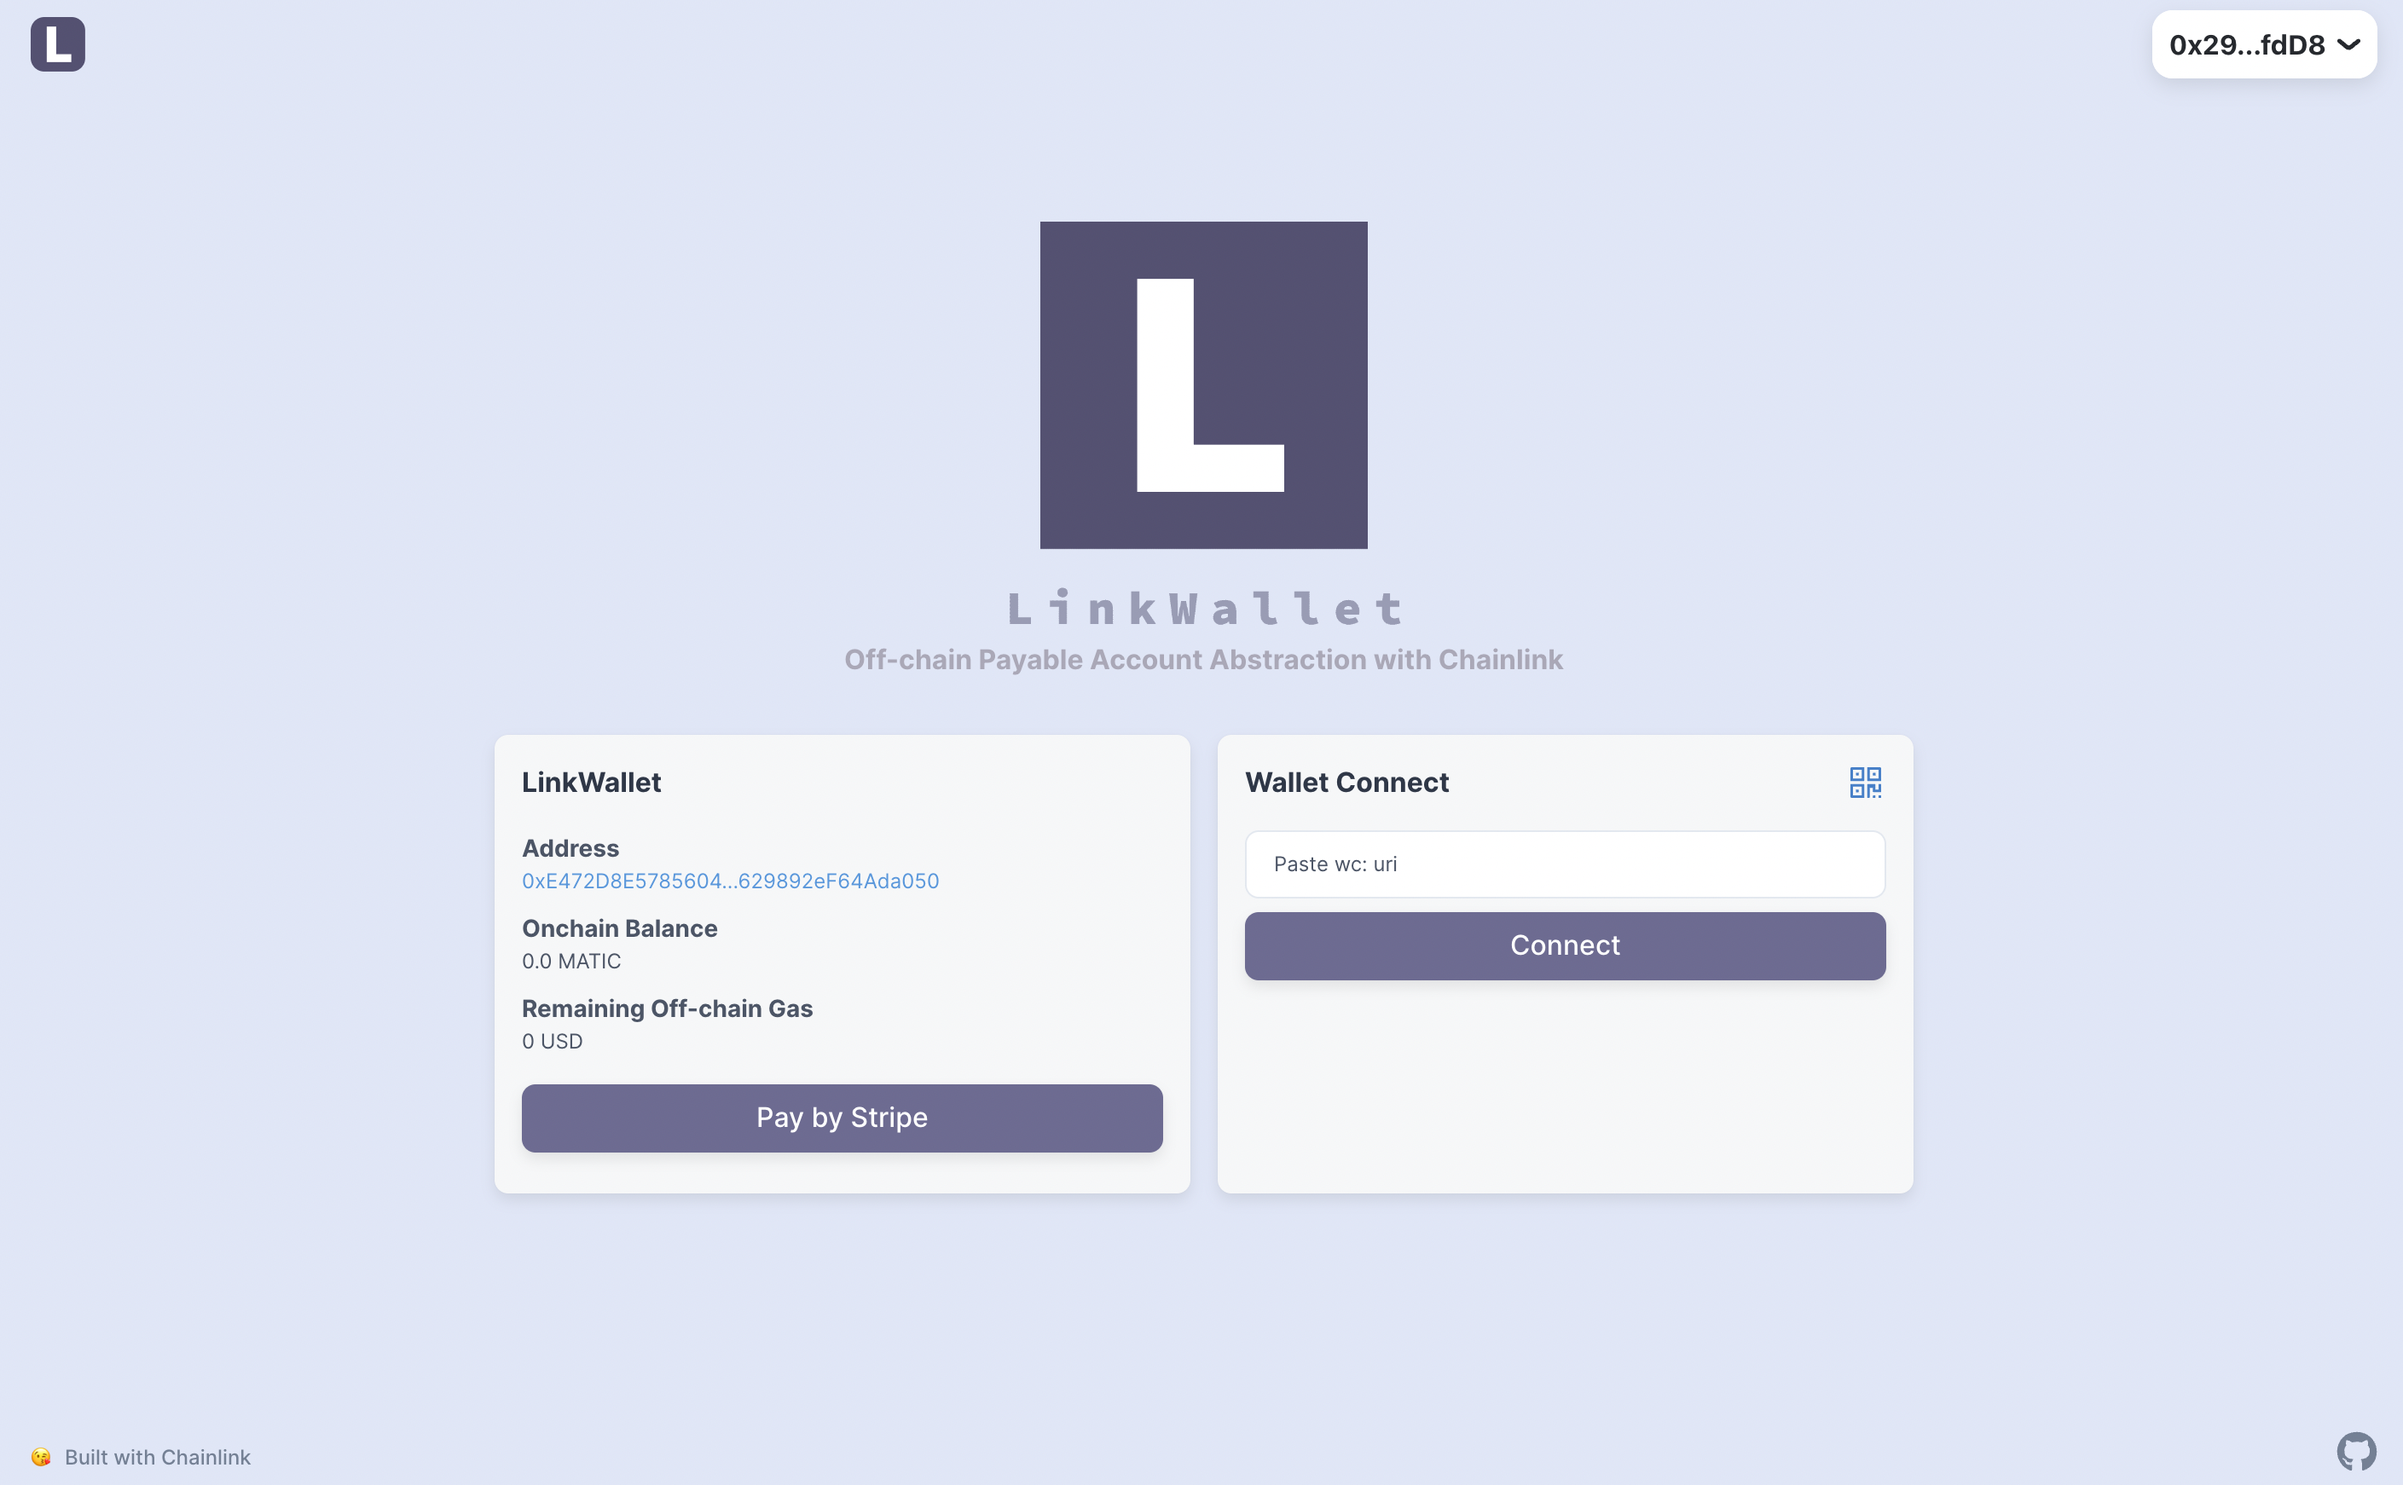
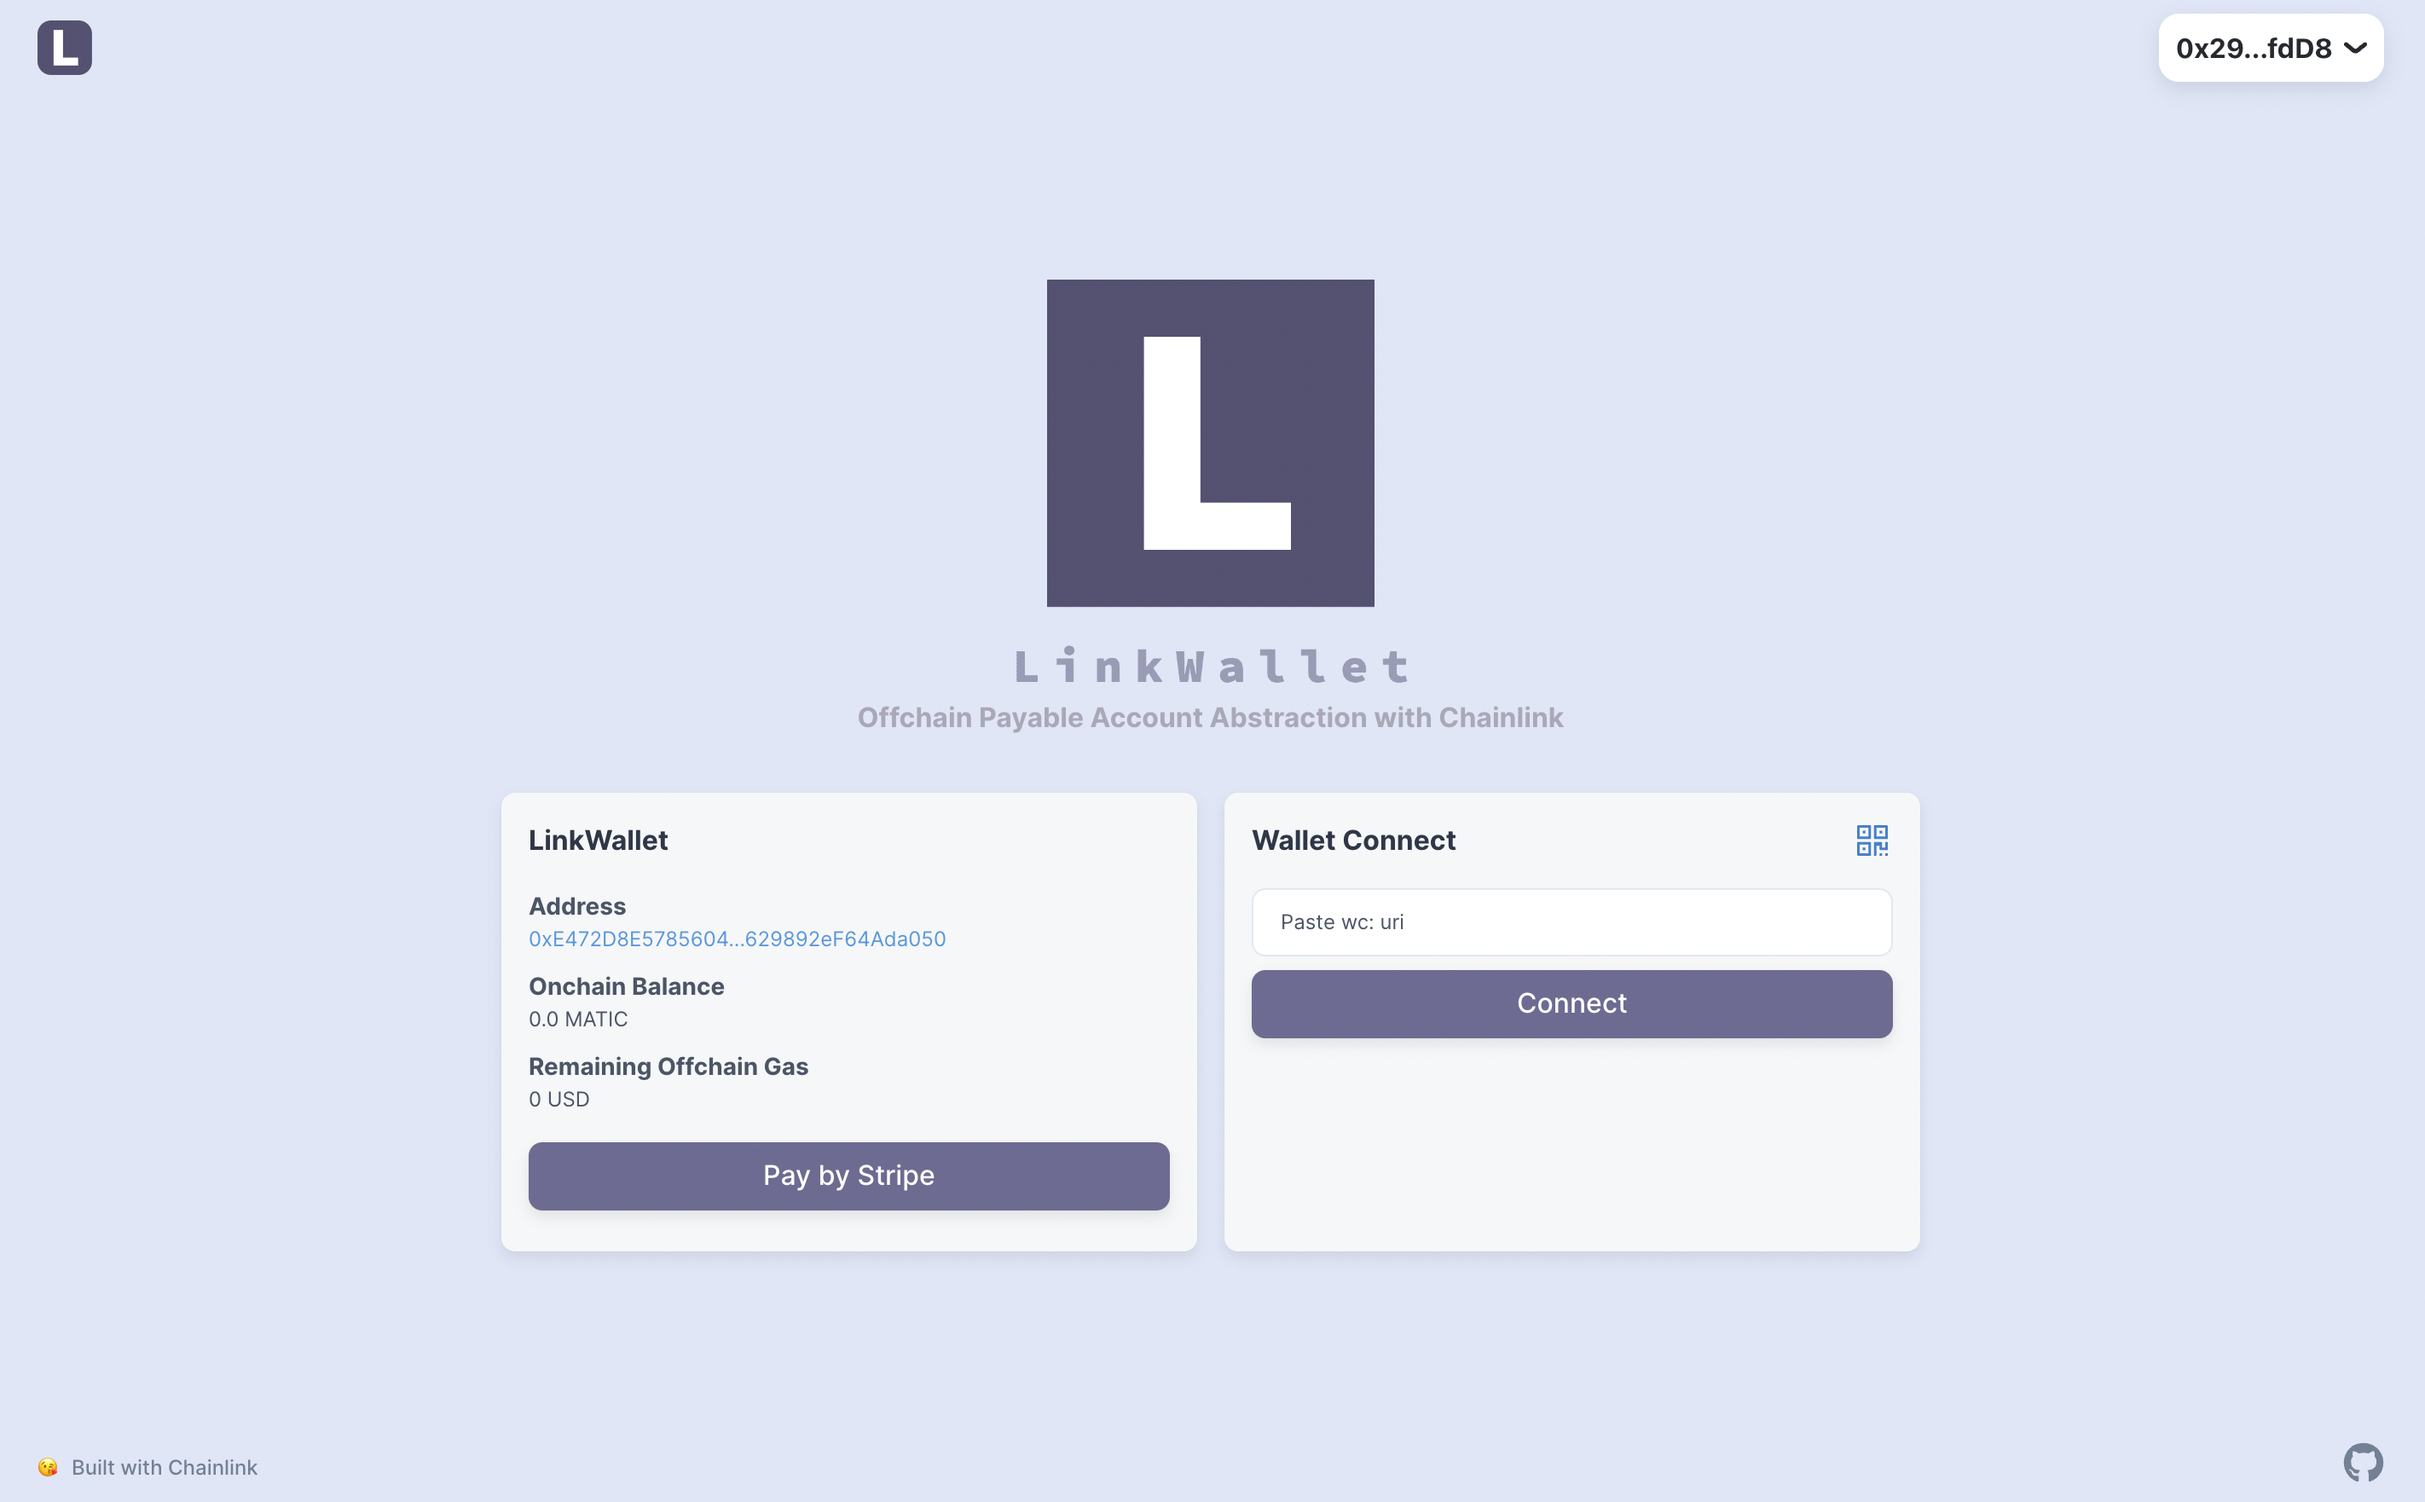
chore: update readme

diff --git a/packages/app/src/pages/index.tsx b/packages/app/src/pages/index.tsx
@@ -194,7 +194,7 @@ const HomePage: NextPage = () => {
                 <Stack spacing="4">
                   <Stack spacing="0">
                     <Text fontSize="sm" fontWeight={"bold"} color={configJsonFile.style.color.black.text.secondary}>
-                      Remaining Off-chain Gas
+                      Remaining Offchain Gas
                     </Text>
                     <Text fontSize="xs" color={configJsonFile.style.color.black.text.secondary}>
                       0 USD

diff --git a/packages/app/src/components/Layout/Layout.tsx b/packages/app/src/components/Layout/Layout.tsx
@@ -26,7 +26,7 @@ export const Layout: React.FC<LayoutProps> = ({ children }) => {
           </HStack>
         </Box>
       </Container>
-      <Container maxW="4xl" py="16" flex={1}>
+      <Container maxW="4xl" py="24" flex={1}>
         {children}
       </Container>
       <Container maxW="8xl">

diff --git a/README.md b/README.md
@@ -1,6 +1,6 @@
 # Link Wallet
 
-Off-chain Payable Account Abstraction with Chainlink
+Offchain Payable Account Abstraction with Chainlink
 
 ![top-screen-shot](./docs/top-screen-shot.png)
 
@@ -18,7 +18,7 @@ TBD
 
 ## User Benefits
 
-- Users can pay off-chain gas-fee when start using Polygon
+- Users can pay Offchain gas-fee when start using Polygon
 - It enables users to skip "bridge token from the other chain" or "send token from the central exchange", which is the first obstacle for users to start using a blockchain-based app
 - It brings very good onboarding, especially for the new user
 
